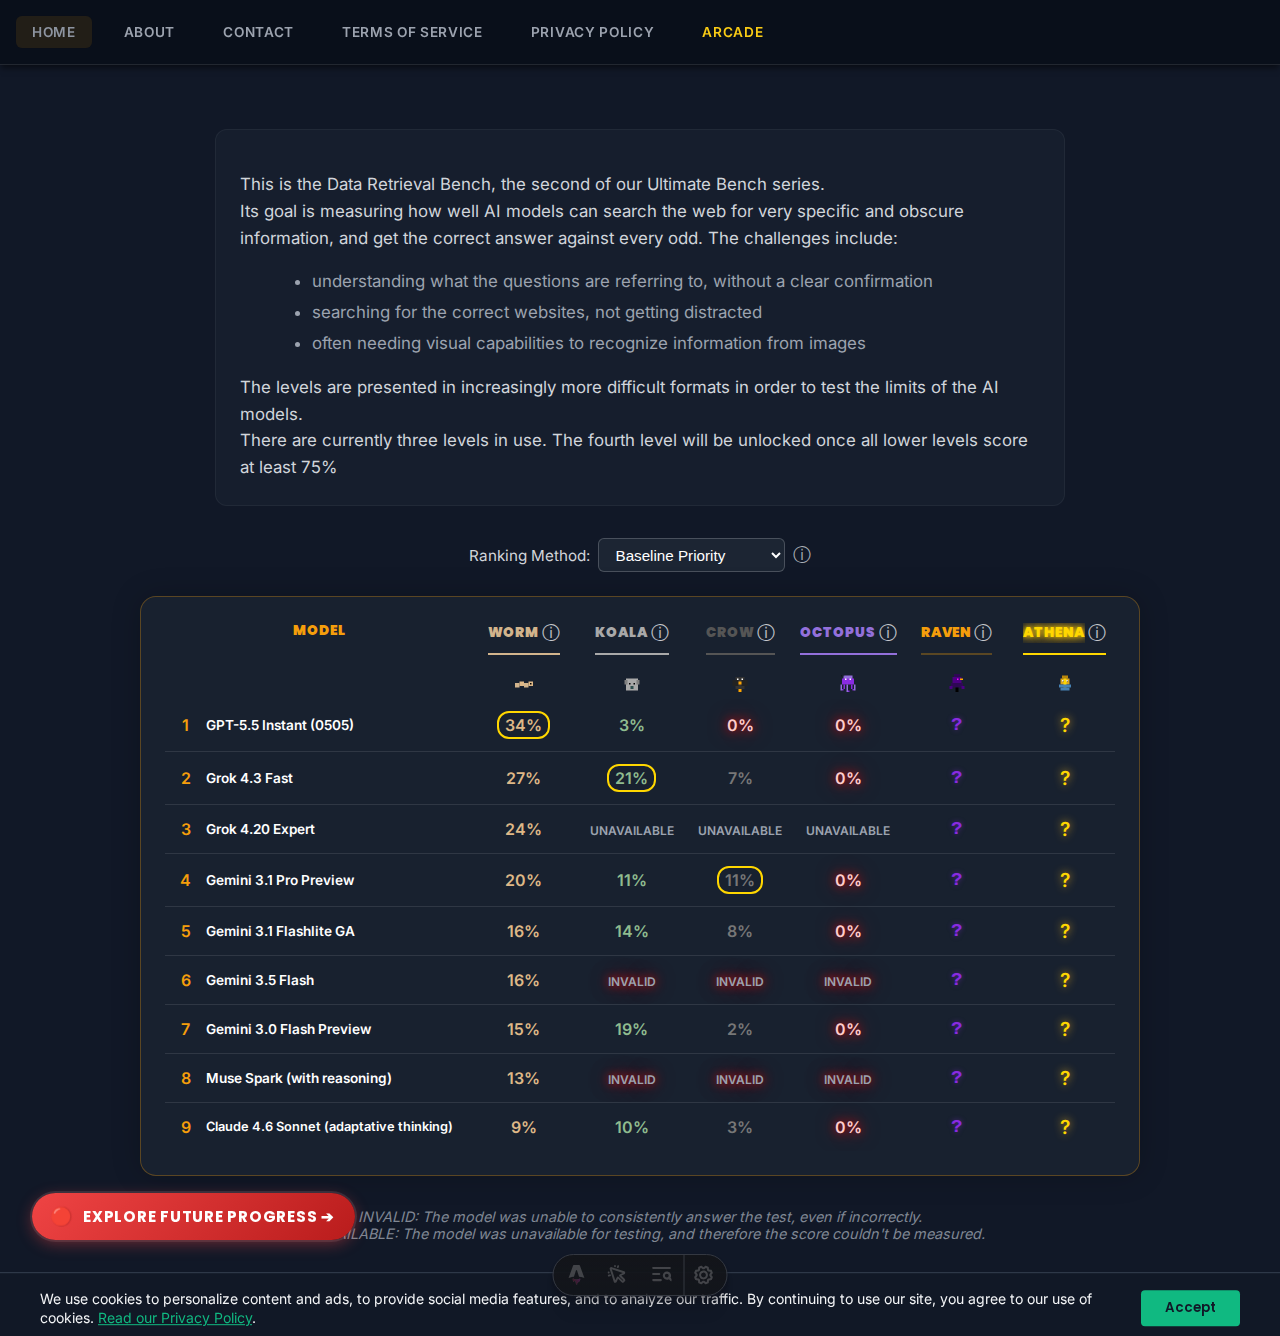
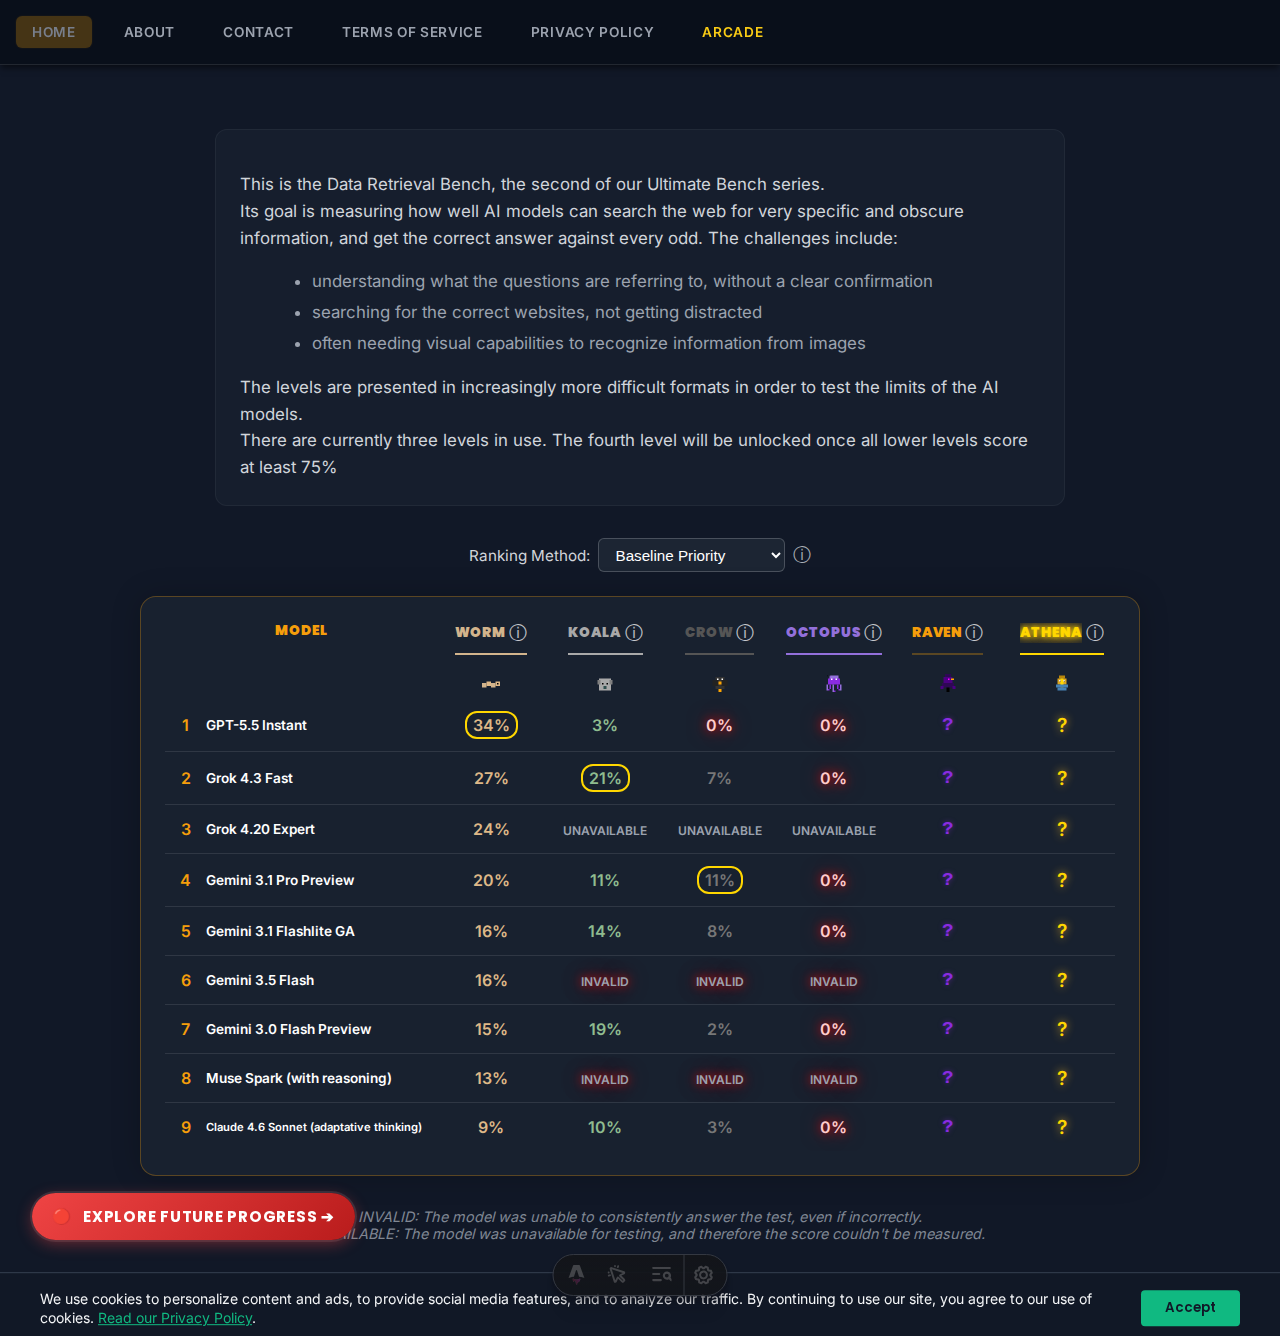
Revert "Refactor benchmark data and UI grid layout"

diff --git a/src/data/benchmarks.ts b/src/data/benchmarks.ts
@@ -201,7 +201,7 @@ export const benchmarks = {
             }
         },
         {
-            name: 'GPT-5.5 Instant (0505)',
+            name: 'GPT-5.5 Instant',
             scores: {
                 'lvl1': 30,
                 'lvl2': 38,
@@ -228,18 +228,18 @@ export const benchmarks = {
         { name: 'Gemini 3.1 Pro Preview', scores: { worm: 20, koala: 11, crow: 11, octopus: 0 } },
         { name: 'Muse Spark (with reasoning)', scores: { worm: 13, koala: 'INVALID', crow: 'INVALID', octopus: 'INVALID' } },
         { name: 'Claude 4.6 Sonnet (adaptative thinking)', scores: { worm: 9, koala: 10, crow: 3, octopus: 0 }, releaseDate: '2026-02-21' },
-        { name: 'GPT-5.5 Instant (0505)', scores: { worm: 34, koala: 3, crow: 0, octopus: 0 } },
+        { name: 'GPT-5.5 Instant', scores: { worm: 34, koala: 3, crow: 0, octopus: 0 } },
         { name: 'Gemini 3.1 Flashlite GA', scores: { worm: 16, koala: 14, crow: 8, octopus: 0 } },
         { name: 'Gemini 3.0 Flash Preview', scores: { worm: 15, koala: 19, crow: 2, octopus: 0 } }
     ],
     chessModels: [
         { name: 'Gemini 3.1 Flashlite GA', scores: { mouse: 0, spider: 0, wolf: 0, hawk: 0, python: 0 } },
         { name: 'Grok 4.3 Fast', scores: { mouse: 0, spider: 0, wolf: 0, hawk: 0, python: 0 } },
-        { name: 'Gemini 3.1 Pro Preview', scores: { mouse: 57, spider: 0, wolf: 0, hawk: 0, python: 0 } },
-        { name: 'GPT-5.5 Instant (0505)', scores: { mouse: 0, spider: 0, wolf: 0, hawk: 0, python: 0 } },
+        { name: 'Gemini 3.1 Pro Preview*', scores: { mouse: 57, spider: 0, wolf: 0, hawk: 0, python: 0 } },
+        { name: 'GPT-5.5 Instant', scores: { mouse: 0, spider: 0, wolf: 0, hawk: 0, python: 0 } },
         { name: 'Gemini 3.5 Flash', scores: { mouse: 40, spider: 0, wolf: 0, hawk: 0, python: 0 } },
         { name: 'Claude 4.6 Sonnet (adaptative thinking)', scores: { mouse: 0, spider: 0, wolf: 0, hawk: 0, python: 0 } },
-        { name: 'Muse Spark (with reasoning)', scores: { mouse: 0, spider: 0, wolf: 0, hawk: 0, python: 0 } },
+        { name: 'Muse Spark (with reasoning)*', scores: { mouse: 0, spider: 0, wolf: 0, hawk: 0, python: 0 } },
         { name: 'Gemini 3.0 Flash Preview', scores: { mouse: 15, spider: 0, wolf: 0, hawk: 0, python: 0 } }
     ]
 };